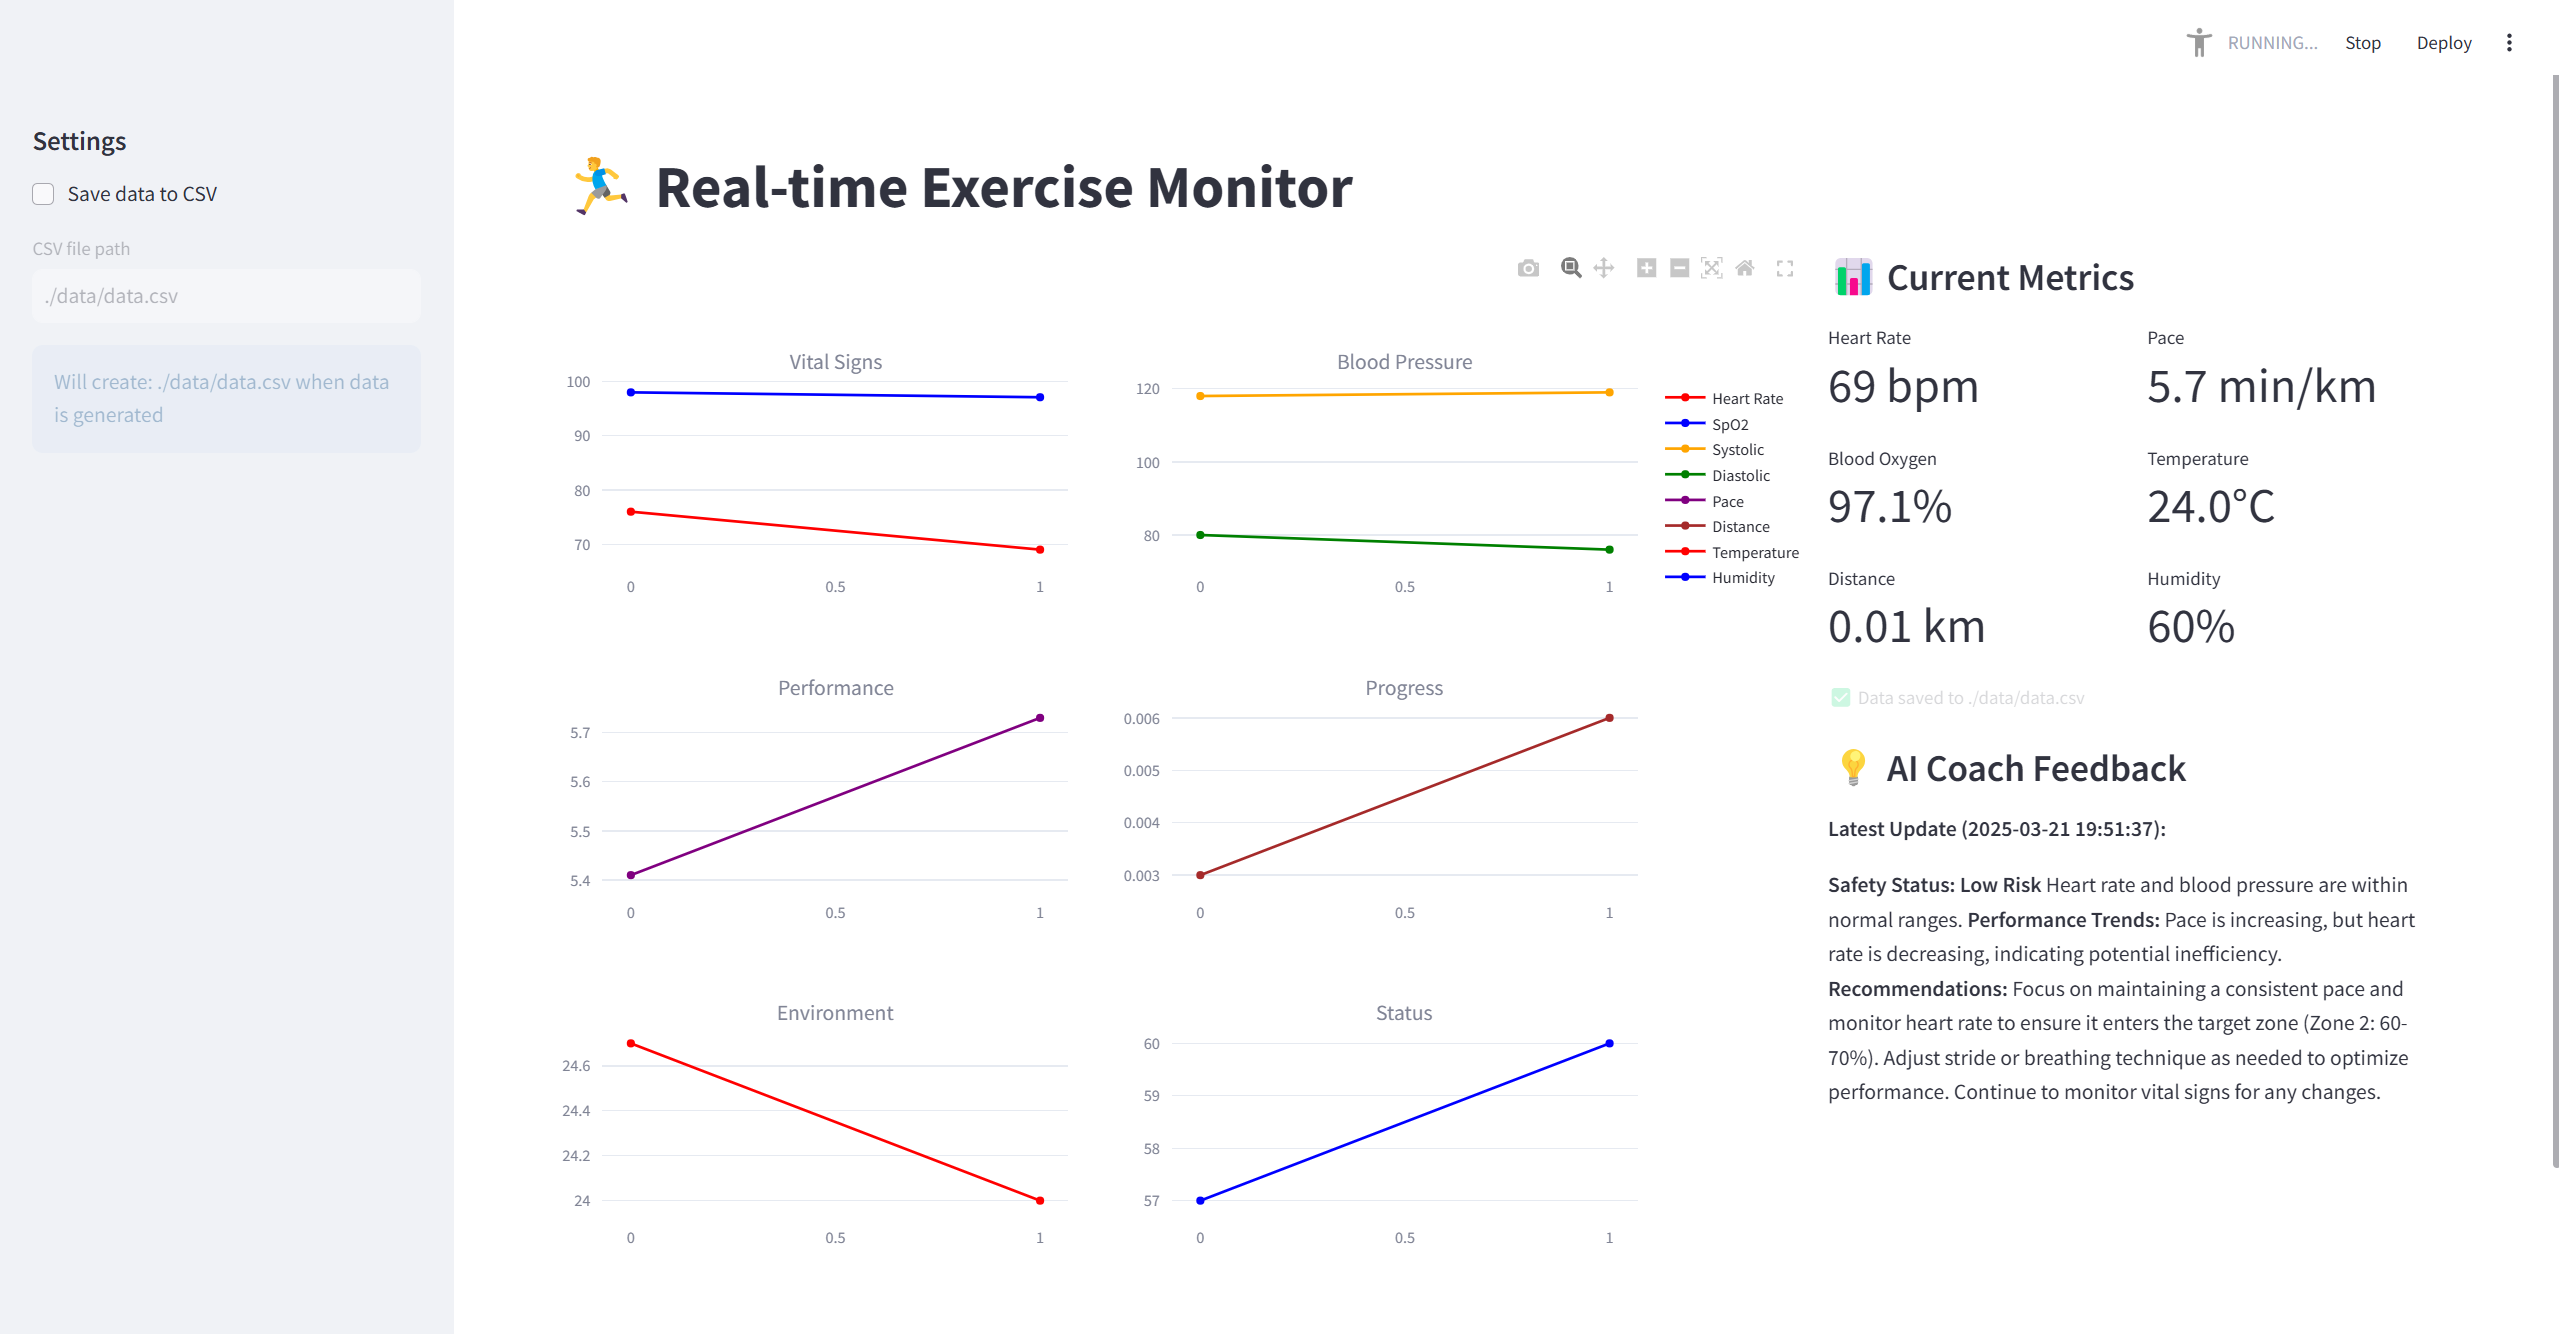
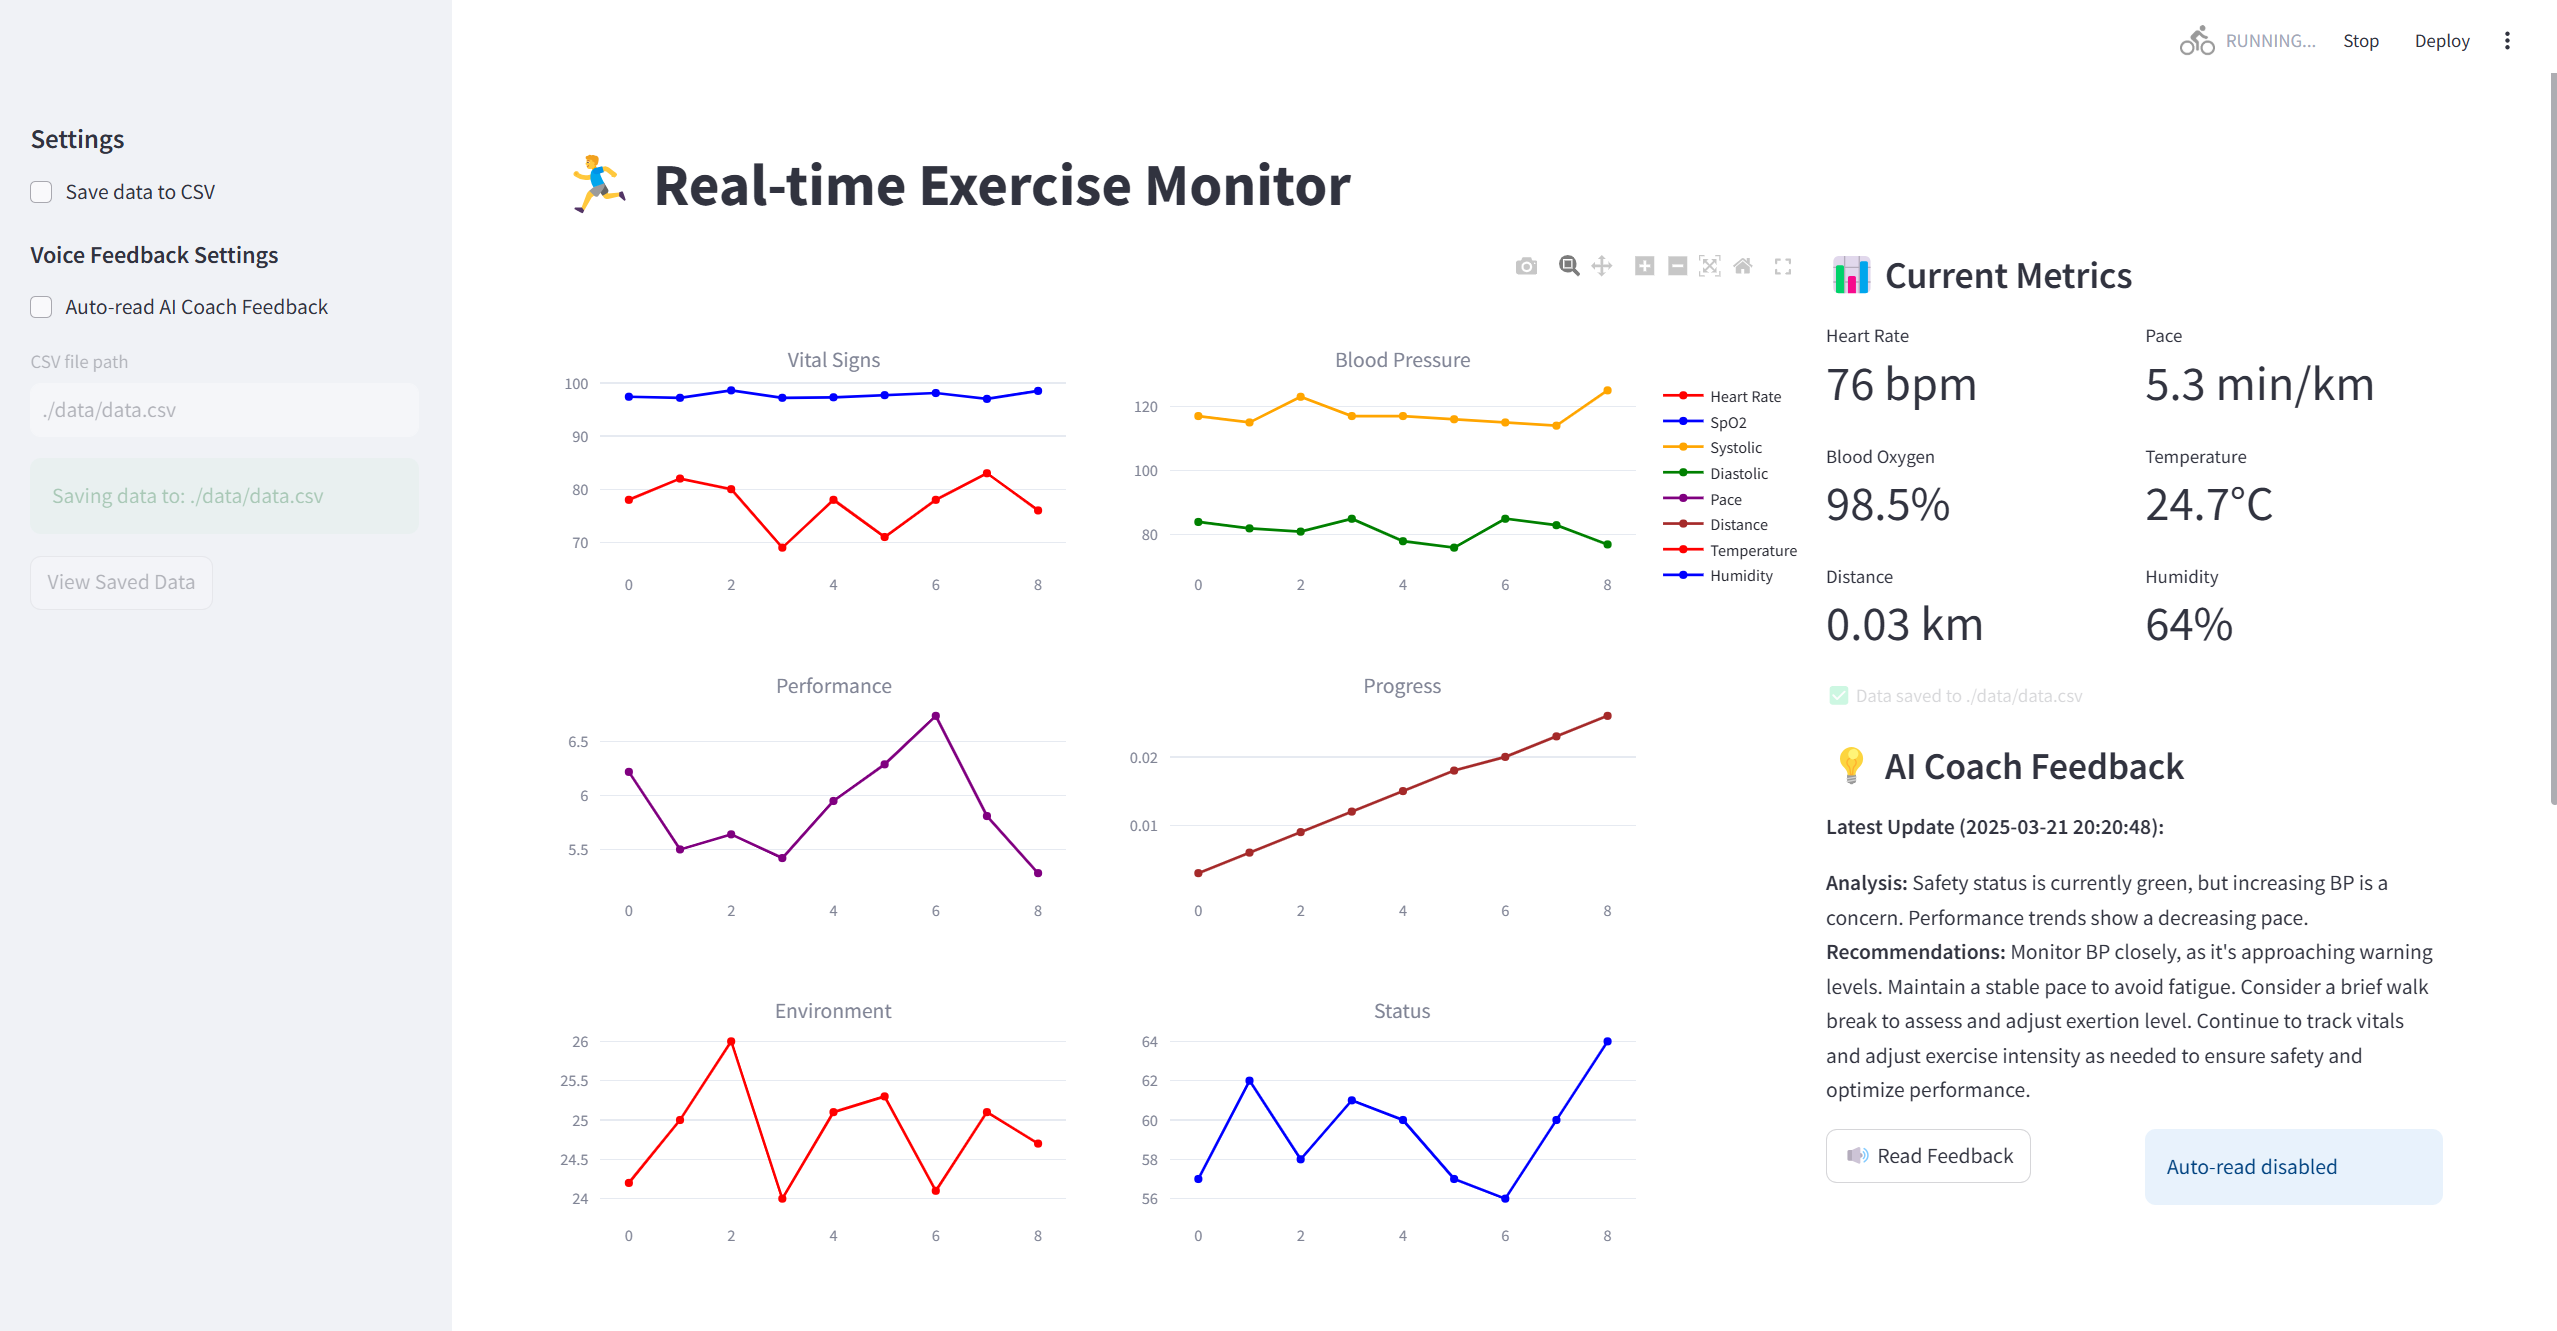
added: audio function

diff --git a/ui.py b/ui.py
@@ -81,6 +81,11 @@ def initialize_session_state():
         st.session_state.csv_path = "./data/data.csv"
     if 'save_data' not in st.session_state:
         st.session_state.save_data = True
+    # 添加语音反馈相关的状态
+    if 'auto_read_feedback' not in st.session_state:
+        st.session_state.auto_read_feedback = False
+    if 'last_read_feedback' not in st.session_state:
+        st.session_state.last_read_feedback = ""
 
 def update_history(data):
     """更新历史数据"""
@@ -167,6 +172,27 @@ def create_metrics_chart():
     fig.update_layout(height=800, showlegend=True)
     return fig
 
+# 添加语音播报功能
+def text_to_speech(text):
+    """
+    将文本转换为语音并在网页中播放
+    
+    参数:
+        text (str): 需要播放的文本
+    """
+    # 使用HTML的audio元素和Web Speech API
+    speech_js = f"""
+    <script>
+        function speak() {{
+            const utterance = new SpeechSynthesisUtterance(`{text}`);
+            speechSynthesis.speak(utterance);
+        }}
+        speak();
+    </script>
+    """
+    # 使用Streamlit组件来注入JavaScript
+    st.components.v1.html(speech_js, height=0)
+
 def main():
     st.set_page_config(page_title="Exercise Monitor", layout="wide")
     
@@ -178,6 +204,11 @@ def main():
     with st.sidebar:
         st.header("Settings")
         st.session_state.save_data = st.checkbox("Save data to CSV", value=True)
+        
+        # 添加语音反馈设置
+        st.subheader("Voice Feedback Settings")
+        st.session_state.auto_read_feedback = st.checkbox("Auto-read AI Coach Feedback", 
+                                                         value=st.session_state.auto_read_feedback)
         
         if st.session_state.save_data:
             # 允许用户自定义CSV文件路径
@@ -218,6 +249,8 @@ def main():
         metrics_placeholder = st.empty()
         # 为分析结果创建空占位符
         analysis_placeholder = st.empty()
+        # 为语音播报按钮创建空占位符
+        speech_button_placeholder = st.empty()
     
     # 主循环
     while True:
@@ -255,6 +288,23 @@ def main():
             st.subheader("💡 AI Coach Feedback")
             st.markdown(f"**Latest Update ({data['timestamp']}):**")
             st.markdown(analysis)
+        
+        # 添加语音播报按钮
+        with speech_button_placeholder.container():
+            col1, col2 = st.columns([1, 1])
+            with col1:
+                if st.button("🔊 Read Feedback", key="read_feedback"):
+                    text_to_speech(analysis)
+                    st.session_state.last_read_feedback = analysis
+            with col2:
+                if st.session_state.auto_read_feedback:
+                    st.success("Auto-read enabled")
+                    # 只有当分析内容发生变化时才自动播报
+                    if analysis != st.session_state.last_read_feedback:
+                        text_to_speech(analysis)
+                        st.session_state.last_read_feedback = analysis
+                else:
+                    st.info("Auto-read disabled")
         
         time.sleep(10)
 
